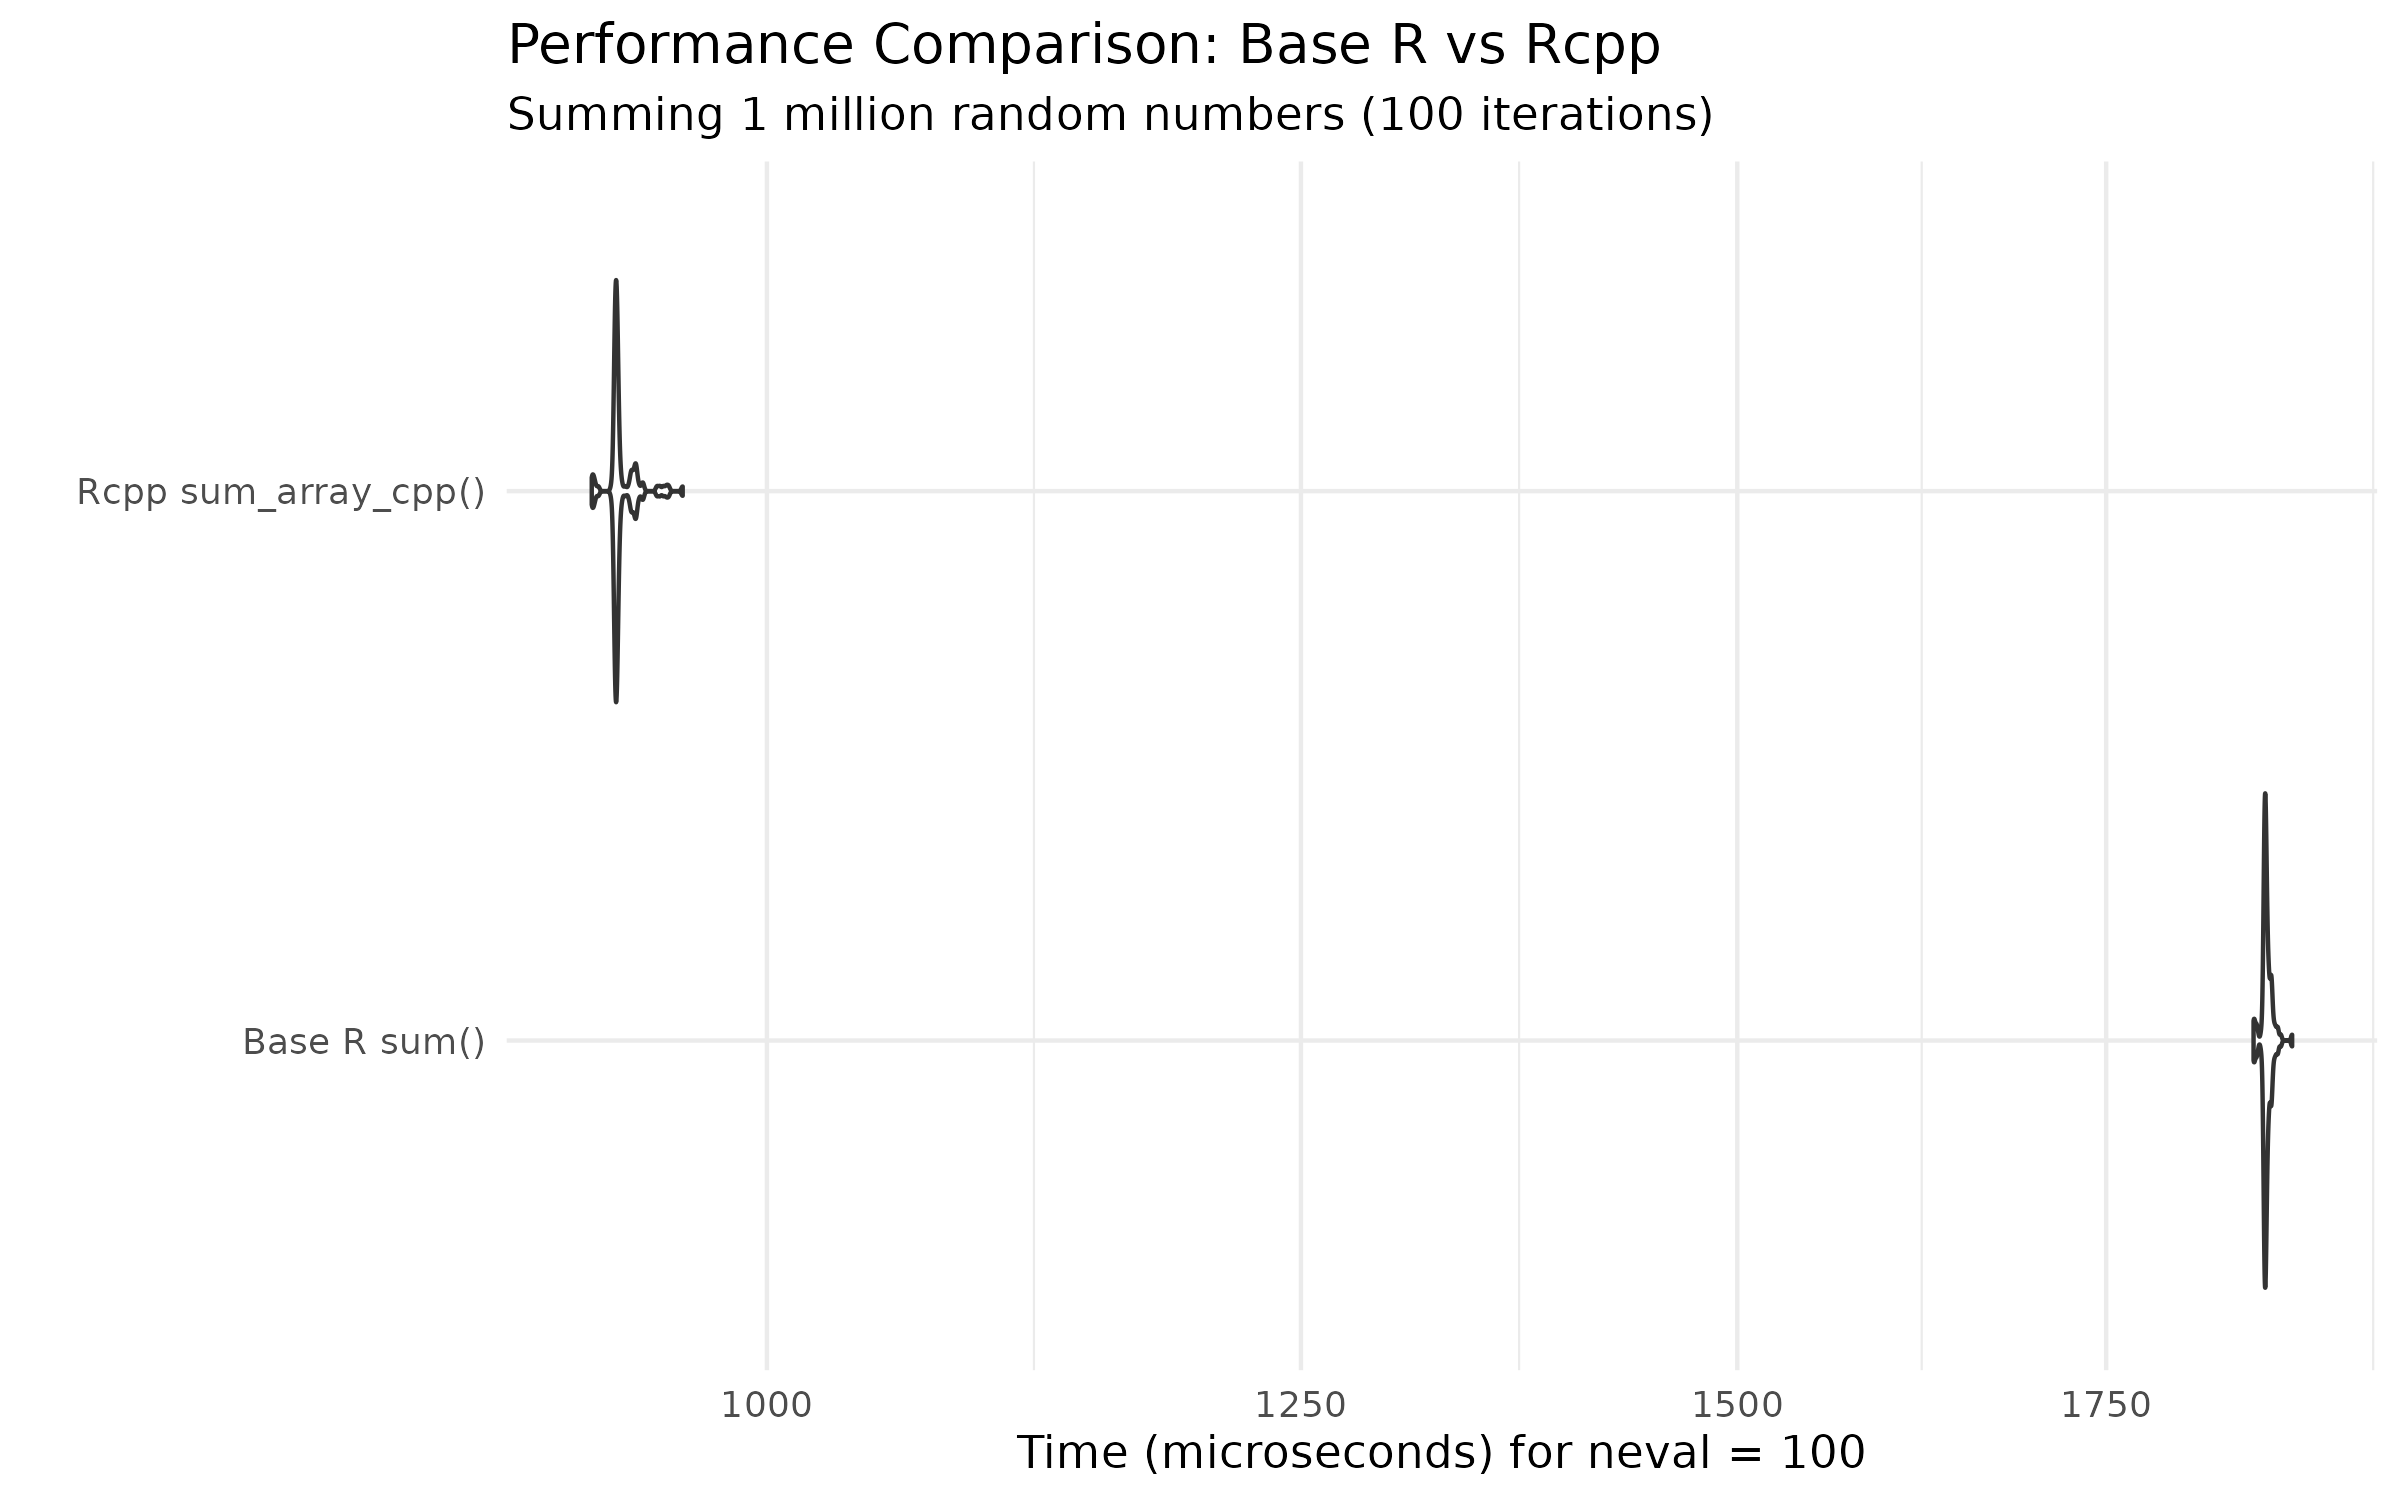
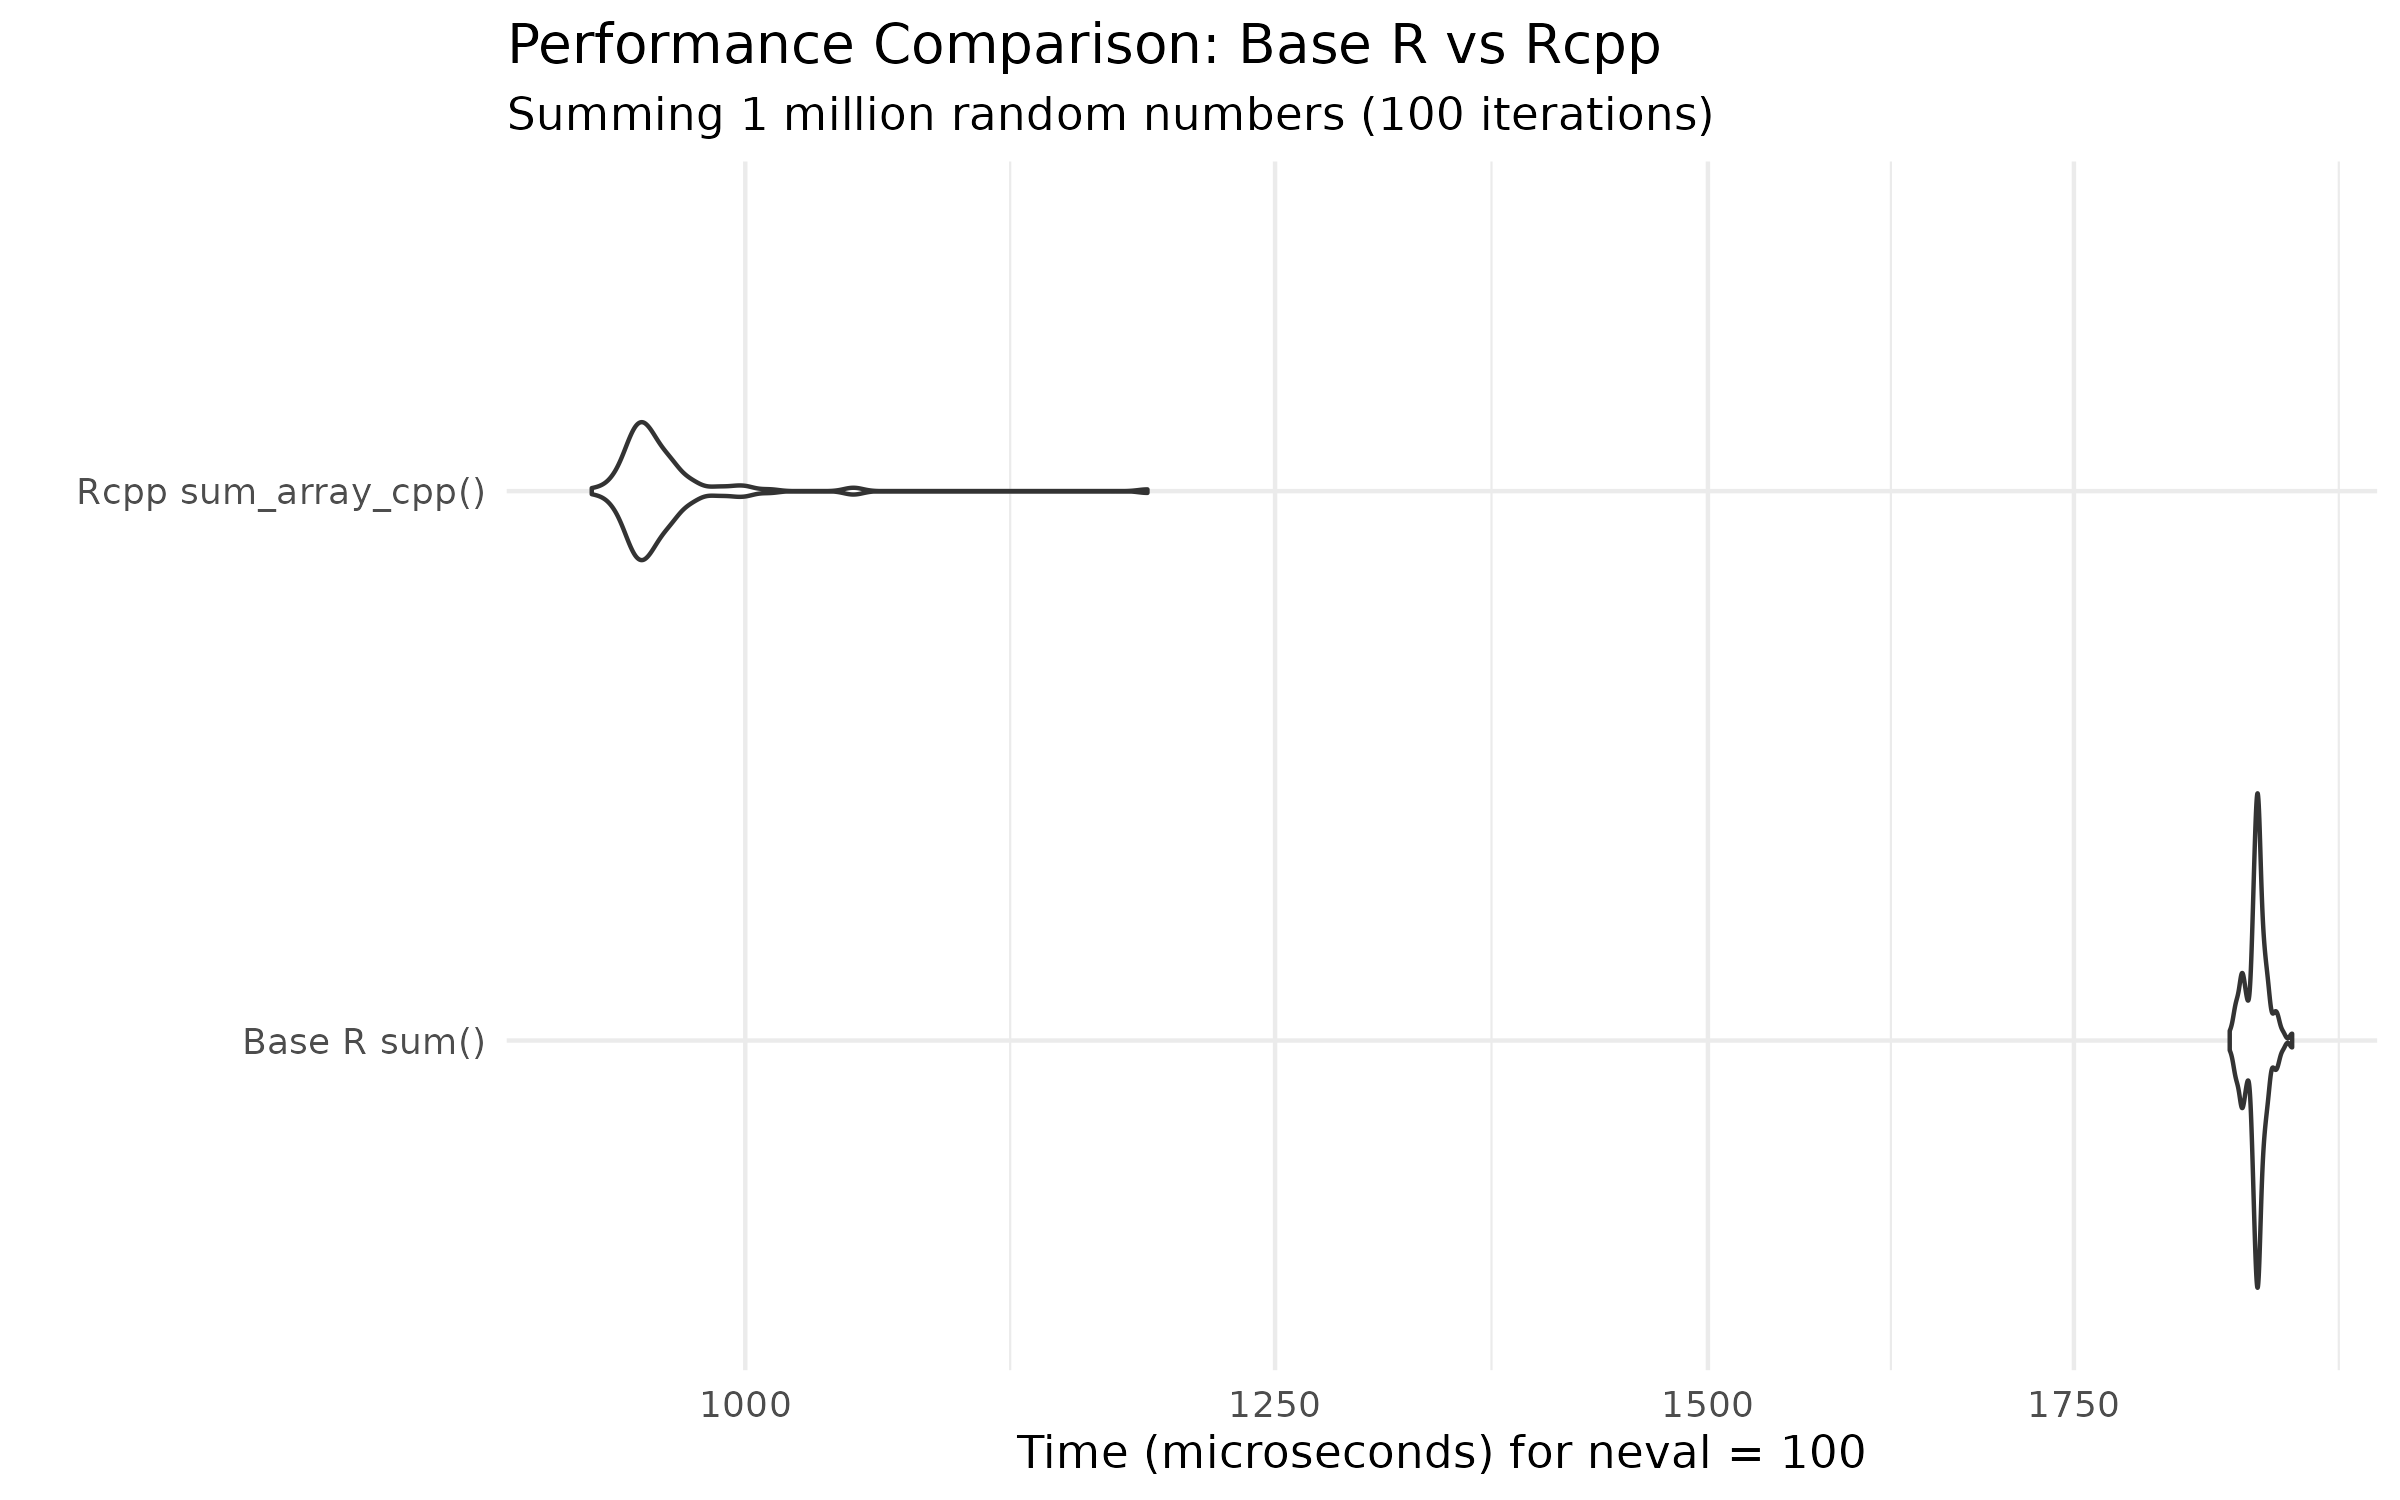
Deploying to gh-pages from @ derecksprojects/templateRpackage@168a6cc3292bd7bd1a1f6aab5a82d22273a0d3a7 🚀

diff --git a/articles/demo.html b/articles/demo.html
@@ -132,9 +132,9 @@ base R’s <code><a href="https://rdrr.io/r/base/sum.html" class="external-link"
 <span></span>
 <span><span class="fu"><a href="https://rdrr.io/r/base/print.html" class="external-link">print</a></span><span class="op">(</span><span class="va">mb</span><span class="op">)</span></span>
 <span><span class="co">#&gt; Unit: microseconds</span></span>
-<span><span class="co">#&gt;                  expr      min       lq      mean    median        uq      max</span></span>
-<span><span class="co">#&gt;          Base R sum() 1861.174 1869.675 1871.3643 1870.8020 1872.8410 1891.430</span></span>
-<span><span class="co">#&gt;  Rcpp sum_array_cpp()  929.405  938.532  940.8957  939.1885  940.5355  965.402</span></span>
+<span><span class="co">#&gt;                  expr      min       lq      mean   median       uq      max</span></span>
+<span><span class="co">#&gt;          Base R sum() 1868.709 1887.104 1890.0246 1890.775 1894.166 1918.492</span></span>
+<span><span class="co">#&gt;  Rcpp sum_array_cpp()  937.380  954.341  966.3398  959.997  968.158 1184.592</span></span>
 <span><span class="co">#&gt;  neval</span></span>
 <span><span class="co">#&gt;    100</span></span>
 <span><span class="co">#&gt;    100</span></span></code></pre></div>

diff --git a/articles/demo.md b/articles/demo.md
@@ -72,9 +72,9 @@ mb <- microbenchmark(
 
 print(mb)
 #> Unit: microseconds
-#>                  expr      min       lq      mean    median        uq      max
-#>          Base R sum() 1861.174 1869.675 1871.3643 1870.8020 1872.8410 1891.430
-#>  Rcpp sum_array_cpp()  929.405  938.532  940.8957  939.1885  940.5355  965.402
+#>                  expr      min       lq      mean   median       uq      max
+#>          Base R sum() 1868.709 1887.104 1890.0246 1890.775 1894.166 1918.492
+#>  Rcpp sum_array_cpp()  937.380  954.341  966.3398  959.997  968.158 1184.592
 #>  neval
 #>    100
 #>    100
